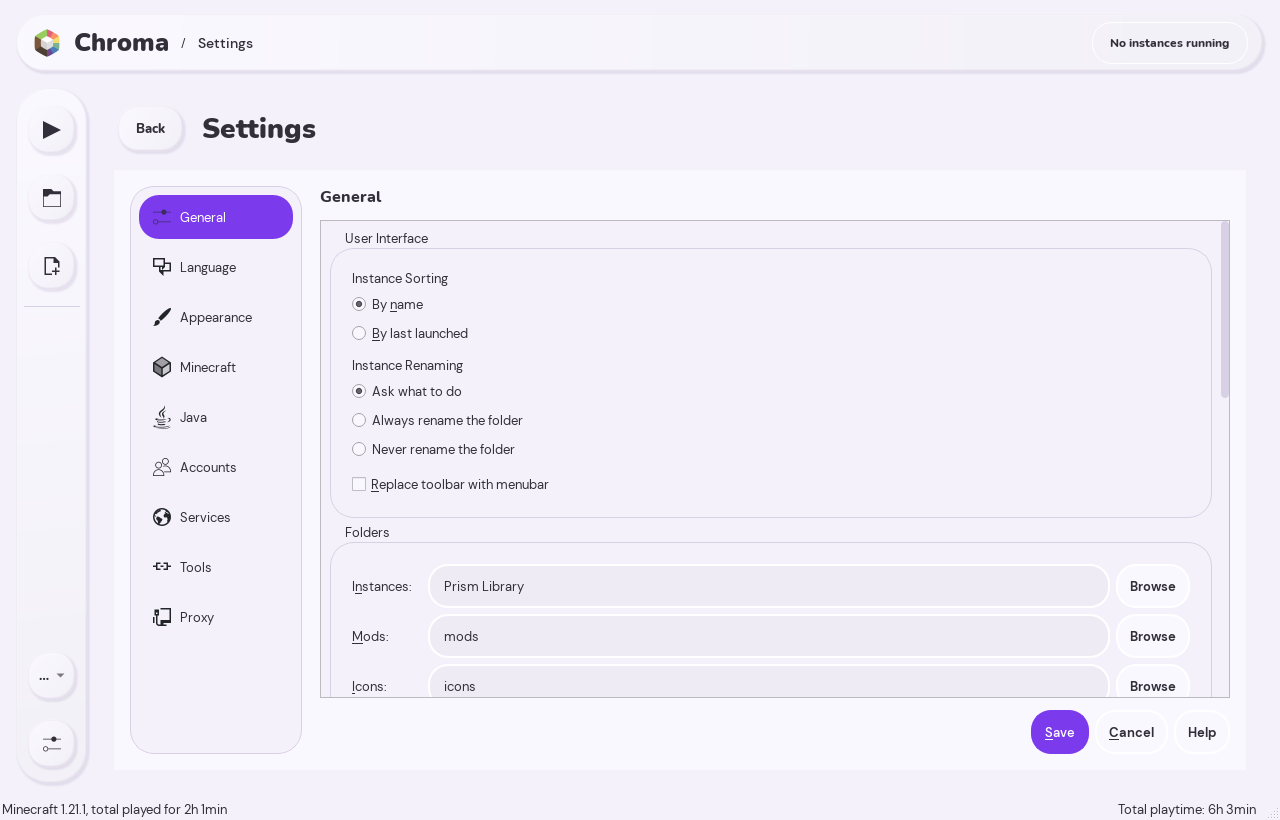
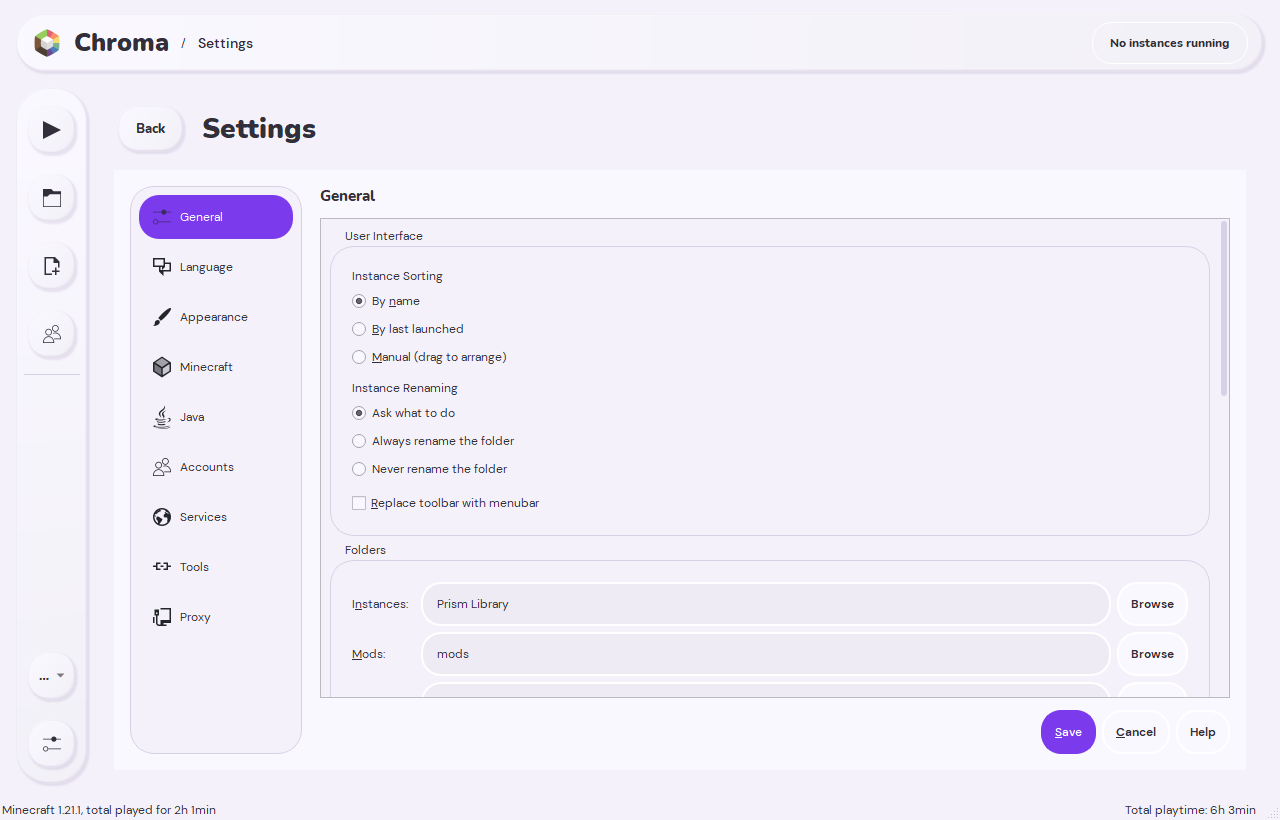
docs: refresh screenshots and current revision features

diff --git a/README.md b/README.md
@@ -1,7 +1,7 @@
 <h1 align="center">Chroma</h1>
 
-<p align="center"><strong>A fresh interface for your Minecraft library.</strong><br>
-Native C++ and Qt. Built on Prism Launcher. Soft clay surfaces, vivid violet, and room for your own colors.</p>
+<p align="center"><strong>Minecraft instances, modpacks, and skins in one native launcher.</strong><br>
+Built on Prism Launcher with C++, Qt Widgets, and customizable light and dark clay themes.</p>
 
 <p align="center">
   <a href="https://github.com/nikitasokolov01/chroma/releases/tag/v0.1.0">Download for Windows</a> ·
@@ -18,7 +18,11 @@ Chroma rebuilds Prism Launcher's default interface around a card library, a pers
 
 ## Download
 
-**v0.1.0 preview · Windows x64**
+**Published download: v0.1.0 preview · Windows x64**
+
+The features and screenshots below show the current source revision. The v0.1.0
+downloads are an earlier preview and do not include all of these changes. To run
+the current revision, follow the [Windows build guide](docs/CHROMA.md#build-from-source).
 
 | Package | Use it when… |
 | --- | --- |
@@ -27,14 +31,38 @@ Chroma rebuilds Prism Launcher's default interface around a card library, a pers
 
 Read the [release notes](https://github.com/nikitasokolov01/chroma/releases/tag/v0.1.0) for this preview's requirements and known limitations. Updates are downloaded from Releases; the upstream binary updater is disabled.
 
-## Your library, in one place
+## Features in the current revision
 
-- **Jump back in.** Recently played instances sit above a searchable, grouped card library.
-- **Pin your favorites.** Keep instance shortcuts in the sidebar and open their settings with one click.
-- **Browse by service.** Choose Modrinth, CurseForge, ATLauncher, Technic, or FTB Legacy, then browse covers, filters, and versions. Available services depend on the build's API configuration.
-- **Stay in the workspace.** Instance editing, launcher settings, accounts, and installation flows open inside the main window.
-- **Choose your appearance.** Switch between light and dark clay themes, then pick a preset or custom accent color.
-- **Keep your Prism library.** Open an existing profile directly, including custom instance locations, without copying your modpacks.
+- **Organize instances.** Search grouped cards, open recent instances, or drag cards into a saved manual order. Name and last-played sorting remain available.
+- **Pin from the library.** Drop an instance onto the sidebar to pin it, then open its settings with one click.
+- **Manage skins from the sidebar.** Open **Skins**, switch accounts with the dropdown, and manage skins and capes without changing your default launch account. Local editing works before adding an account.
+- **Edit in Skin Studio.** Use compact brush, eraser, color-picker, and pan tools with keyboard shortcuts, a live 3D preview, Classic/Slim models, layers, undo/redo, and PNG import/export. Save locally or apply a skin to an eligible Microsoft account.
+- **Browse modpacks and project details.** Browse Modrinth, CurseForge, ATLauncher, Technic, and FTB Legacy. Modrinth and CurseForge share **About**, **Gallery**, and **Releases** views with cached project information for offline use. Available services depend on the build's API configuration.
+- **Work inside one window.** Instance editing, settings, accounts, and installation flows open inline. Smooth scrolling and restored scroll positions help with navigation; clickable cards and controls use hand cursors.
+- **Handle larger libraries.** Card painting visits visible rows, geometry is cached, and progress updates avoid full layouts. The library background stays still while idle. Regression coverage includes a 4,000-instance library.
+- **Choose your appearance.** Use light or dark clay themes and preset or custom accents. Windows caption colors follow the theme while retaining native window controls.
+- **Use your existing Prism profile.** Open instances, worlds, accounts, and custom instance locations directly, without copying modpacks.
+
+This revision also fixes skin-preview corruption when the status bar is visible,
+removes decorative UI slogans, and keeps Alt from revealing the legacy menu bar.
+Commands remain available from **Launcher menu (•••)**.
+
+### Light and dark themes
+
+| Light | Dark |
+| --- | --- |
+| [![Current Chroma home with the Skins sidebar entry, recent instances, and searchable library](docs/screenshots/home.png)](docs/screenshots/home.png) | [![Chroma home using the dark clay theme](docs/screenshots/dark-home.png)](docs/screenshots/dark-home.png) |
+
+### Skin Library and Skin Studio
+
+| Choose an account and skin | Paint and preview |
+| --- | --- |
+| [![Skin Library with its account dropdown, Classic and Slim models, and cape selector](docs/screenshots/skin-library.png)](docs/screenshots/skin-library.png) | [![Skin Studio with compact icon tools, a texture canvas, and a live 3D preview](docs/screenshots/skin-studio.png)](docs/screenshots/skin-studio.png) |
+
+Open **Skins** in the sidebar, choose a skin, then select **Edit Skin…**. On the
+canvas, use **B** for brush, **E** for eraser, **I** for color picker, and **H** for
+pan. Applying a skin requires a Microsoft account with a Minecraft Java profile;
+editing and exporting can stay local.
 
 ### Browse, choose, install
 
@@ -42,13 +70,17 @@ Read the [release notes](https://github.com/nikitasokolov01/chroma/releases/tag/
 | --- | --- |
 | [![Modpack provider gallery](docs/screenshots/provider-gallery.png)](docs/screenshots/provider-gallery.png) | [![Cover grid and selected modpack's version and details](docs/screenshots/modpack-details.png)](docs/screenshots/modpack-details.png) |
 
+[![Shared project information with About, Gallery, and Releases tabs and an offline cache notice](docs/screenshots/project-details.png)](docs/screenshots/project-details.png)
+
 ### Familiar controls, inside the new interface
 
 | Launcher settings | Compact layout |
 | --- | --- |
 | [![Settings open inside Chroma's main window](docs/screenshots/inline-settings.png)](docs/screenshots/inline-settings.png) | [![Modpack cards in a narrow Chroma window](docs/screenshots/modpack-catalog-compact.png)](docs/screenshots/modpack-catalog-compact.png) |
 
-These screenshots show the running native application with synthetic example instances and catalog entries.
+These screenshots were captured from the running native Windows application for
+this revision. Instances, accounts, skins, and catalog entries use synthetic test
+data; they do not show a signed-in user's profile.
 
 ## Already use Prism?
 
@@ -65,6 +97,7 @@ See the [existing-profile guide](docs/CHROMA-MIGRATION.md) for portable profiles
 - [Getting started, accounts, building, and testing](docs/CHROMA.md)
 - [Appearance and accent colors](docs/appearance.md)
 - [Using an existing Prism folder](docs/CHROMA-MIGRATION.md)
+- [UI features, implementation notes, and verification results](docs/UI-MODERNIZATION.md)
 - [Privacy and local account data](PRIVACY.md)
 
 The interface is implemented in C++ and Qt Widgets and compiled into the launcher. Development builds use the scripts in [`scripts/`](scripts/); prerequisites and native UI tests are covered in the [build guide](docs/CHROMA.md#build-from-source).

diff --git a/docs/UI-MODERNIZATION.md b/docs/UI-MODERNIZATION.md
@@ -152,11 +152,11 @@ fixtures, and writes screenshots under its isolated test root. It is excluded
 from the default build and CTest. Use `QT_QPA_PLATFORM=offscreen` for headless
 layout checks; native caption, window-state, and OpenGL behavior need a native run.
 
-Focused tests are registered as `WindowChrome`, `ProjectMetadata`, and
-`SkinTextureDocument`:
+Focused tests are registered as `WindowChrome`, `ProjectMetadata`,
+`SkinTextureDocument`, `SkinPreview`, and `InstanceView`:
 
 ```powershell
-ctest --test-dir .tools/build --output-on-failure -R '^(WindowChrome|ProjectMetadata|SkinTextureDocument)$'
+ctest --test-dir .tools/build --output-on-failure -R '^(WindowChrome|ProjectMetadata|SkinTextureDocument|SkinPreview|InstanceView)$'
 ```
 
 The new smoke coverage includes popup keyboard behavior and placement, native
@@ -190,9 +190,9 @@ Screenshots and synthetic profiles are under `.chroma-test/`; neither directory
 is part of the committed source.
 
 Run the development build with `./scripts/run-chroma.ps1` from the repository
-root. The script supplies the local Qt runtime paths. The feature branch is
-`codex/prism-ui-modernization`; the existing redesign was preserved in a separate
-baseline checkpoint before the feature commits.
+root. The script supplies the local Qt runtime paths. These changes are included
+on `main`; the existing redesign was preserved in a separate baseline checkpoint
+before the feature commits.
 
 ## Skin and library refinement verification — 2026-09-28
 
